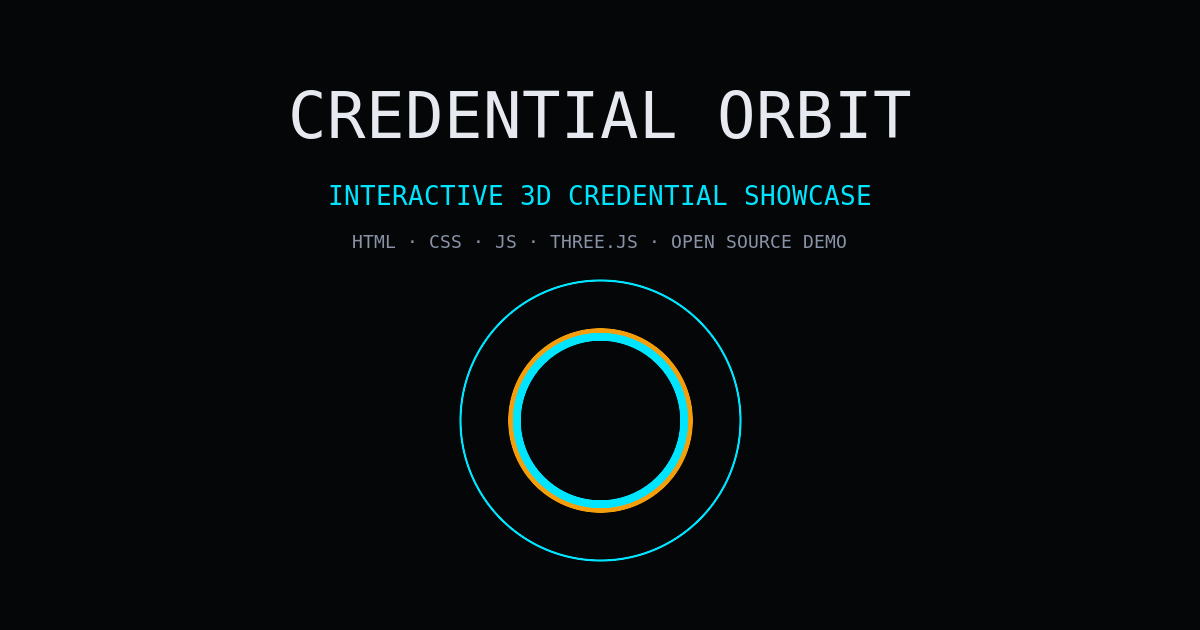
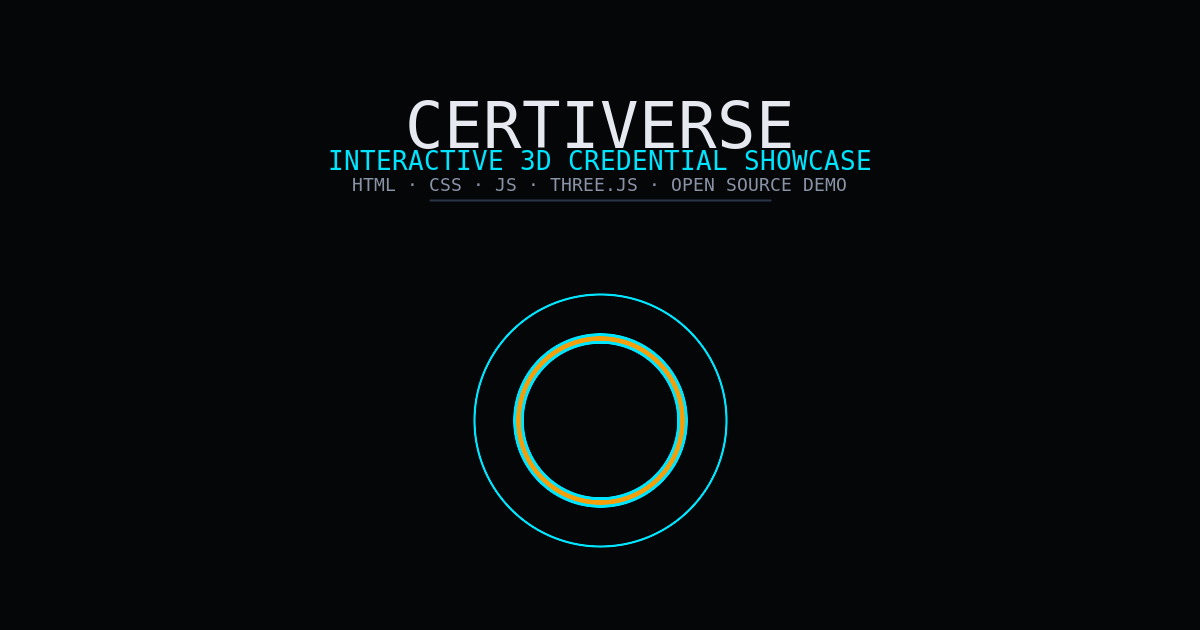
Polish hero SVG spacing/margins, rebrand OG image, footer v1.0.0

diff --git a/index.html b/index.html
@@ -79,7 +79,7 @@
   </section>
 
   <footer class="footer">
-    <div>CREDENTIAL ARCHIVE — ARCHIVE VERSION 2.1</div>
+    <div>CERTIVERSE — VERSION 1.0.0</div>
     <div>BUILT WITH HTML / CSS / JS / THREE.JS</div>
     <div class="footer-links">
       <a href="https://github.com/Adam-ZS/certiverse" target="_blank" rel="noopener noreferrer">SOURCE CODE ↗</a>
